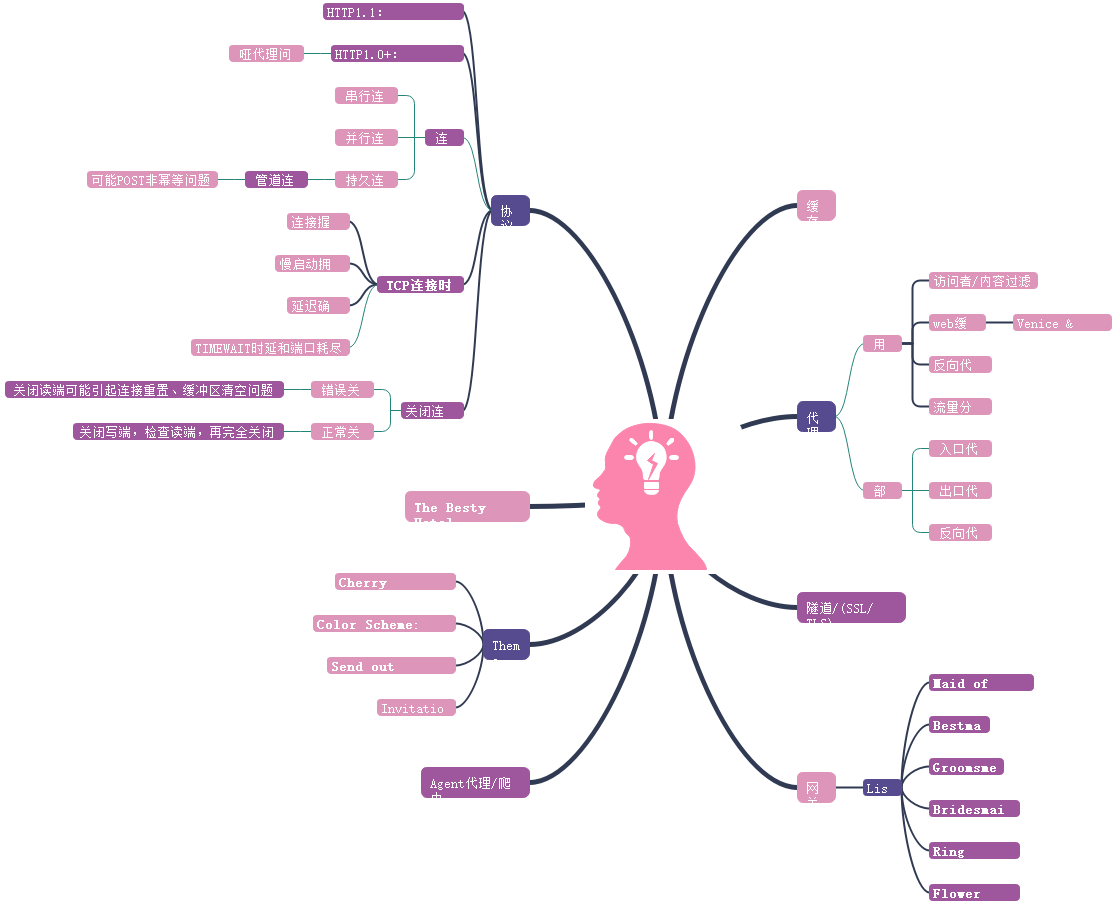
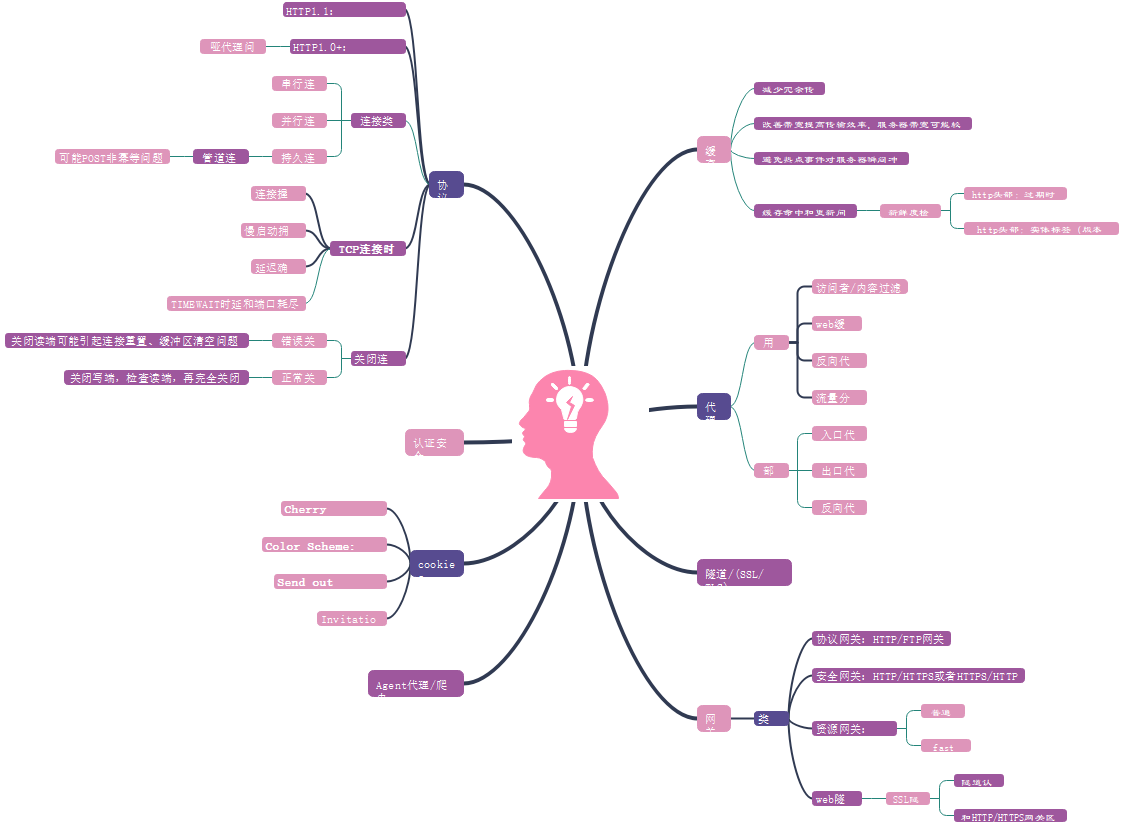
netway

diff --git a/HTTP.md b/HTTP.md
@@ -24,7 +24,13 @@ API stands for "application program interface".It's just a documented method of 
 2、代理和网关的区别？   
 答：代理连接的是多个相同协议的应用程序。http代理服务器既是服务器也是客户端。网关连接的是多个不同协议的应用程序，类似于协议转换器。   
 3、web缓存为什么不能放在浏览器客户端来实现？   
-答： 
+答： 也是有的，浏览器会把常用文档会放在机器的磁盘和内存中，称为私有缓存。共有缓存指缓存代理服务器，一般用于缓存用户群体各种不同的兴趣点。   
+4、HTTP和HTTPS的区别？   
+答：   
+5、HTTP/HTTPS网关和HTTPS/HTTP网关的区别？   
+答：  
+
+
 
 
 **参考**    
